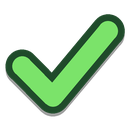
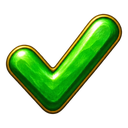
Even out the shop rows and centre Build and Pause in the town bar
Build and Pause each sit centred in the space beside Play. Shop rows gain
a flavor line (the building's first sentence), keep every line one gap
apart with the price and reward lines at one height, show only the
reward's icon, and fade as a whole when the building is out of reach,
through a new node-level opacity in ui.form. Christmas Market uses Relic
Rush's painted checkmark and padlock.

diff --git a/docs/UI_ENGINE.md b/docs/UI_ENGINE.md
@@ -72,7 +72,8 @@ also holds visibility/enabled predicates.
 | `custom` | Game-specific painting inside engine-assigned bounds |
 
 Every node may have `width`, `height`, `min_width`, `min_height`, `grow`, `padding`,
-`gap`, `visible=false`, or `visible_field`. Containers support cross-axis
+`gap`, `visible=false`, `visible_field`, or `opacity` (0–1, multiplying the
+open popup's own fade for the node and its children). Containers support cross-axis
 `align="start|center|end|stretch"`; across a row only a child's `height` caps it,
 and across a column only its `width`, so a row child with just a width still
 stretches to the row's height. Buttons support `enabled=false`,
@@ -653,8 +654,11 @@ for integration checks.
 
 Relic Rush and Christmas Market share `match3.catalogue_form`: headings and one
 building per row, the whole row a flat `pick` button over the game-painted art,
-the name, the price as inline `resource_indicator`s and, for a project, its
-reward; a record marked `slim` takes a short row. It opens as a full-screen sheet
+the name, a flavor line (`about`), the price as inline `resource_indicator`s
+and, for a project, its reward's icon. The price and reward lines share one
+height and the lines one gap, so they sit at an even pitch; a row takes the
+height of its lines. A record marked `faded` (out of reach) draws at half
+opacity. It opens as a full-screen sheet
 under the wallet row: a modal's `bounds` option may be a function of the screen,
 called every frame, and a `list` with `grow` takes the height the sheet leaves.
 A price the wallet cannot cover uses the skin's `price_short` text style.

diff --git a/games/christmas-market/docs/asset-catalogue.md b/games/christmas-market/docs/asset-catalogue.md
@@ -36,10 +36,11 @@ medal uses the original colors.
 
 The town bar reuses the round enamel Build and Pause buttons with the
 [painted jade Play sprite](../../../art/match3-buttons/README.md#town-play)
-centred between them. The Build rim uses the board’s existing blue particles
+centred between them; Build and Pause each centre in the space on their side. The Build rim uses the board’s existing blue particles
 when an eligible project is affordable. The shop lists the current
 phase's building sprites, then the decorations. It draws the existing HUD frames
-`shop-locked` and `shop-built` large over a locked or built building's sprite.
+`shop-locked` and `shop-built` large over a locked or built building's sprite;
+these are Relic Rush's painted padlock and checkmark, copied unchanged.
 Review with `shot epoch-projects-phone` and the phone shop capture.
 
 ## Construction backdrops
@@ -644,8 +645,9 @@ icons to the goal display.
 
 The shop's built and locked tiles use `art/registered/expedition-hud/shop-built.png`
 (checkmark) and `shop-locked.png` (padlock), packed into the HUD atlas as
-`shop-built` and `shop-locked`. The Christmas Market source, prompt and
-per-game styling still need to be recorded in
+`shop-built` and `shop-locked`. They are byte copies of Relic Rush's painted
+`art/registered/expedition-hud/` frames, replacing the earlier flat icons. The
+source, prompt and any per-game styling still need to be recorded in
 [#90](https://github.com/corepunch/nile-archive/issues/90).
 
 The engine's default resource skin is independent and embedded; both games

diff --git a/games/relic-rush/README.md b/games/relic-rush/README.md
@@ -208,9 +208,10 @@ The 100 square boards are authored in `lua/campaign.lua`, five epochs of twenty 
 
 Build opens the shop at the current epoch: its four projects first, under the
 epoch's name and how many are built, then the decorations. Each row shows the
-building's art, its price on one line (an amount you cannot yet cover in red)
-and, for a project, what it brings. A lock or a tick over the art marks a
-locked or built one. A particle trail circles Build when a project is
+building's art, a line about it, its price on one line (an amount you cannot
+yet cover in red) and, for a project, the icon of what it brings. A lock or a
+tick over the art marks a locked or built one, and a row you cannot build yet
+is faded. A particle trail circles Build when a project is
 affordable. A row that can be bought goes straight to placement; a project
 still out of reach opens its card with the shortfall. The triangular Play button shows the next expedition
 between Build and Pause. The next epoch opens after the current one’s

diff --git a/games/christmas-market/README.md b/games/christmas-market/README.md
@@ -97,9 +97,12 @@ come to reopen starts there. The stall can be moved for free. [Opening market](d
 
 Confirmed placement spends Tokens, Treats and Materials from that wallet.
 The Welcome arch is the first campaign purchase.
-The town bar puts Play between the round Build button and the Pause gear.
+The town bar puts Play in the middle, with the round Build button and the
+Pause gear each centred in the space on its side.
 Build opens the shop at the current Advent: its four projects first, under
-the Advent's name and how many are built, then the decorations. A trail
+the Advent's name and how many are built, then the decorations. Each row
+has a line about the stall, its price and, for a project, the icon of what it
+brings; a row you cannot build yet is faded. A trail
 circles Build when an open project is affordable. A row that can be bought
 goes straight to placement; a project still out of reach opens its card with
 the shortfall.

diff --git a/games/christmas-market/docs/square-match3.md b/games/christmas-market/docs/square-match3.md
@@ -57,7 +57,8 @@ First Advent through Fourth Advent and Christmas each have four projects.
 Build opens the shop at the current phase. Its four projects lead the list
 and are available in any order once the phase opens; later phases' projects
 are left out. A particle trail circles Build if you can afford a project.
-Each row shows the price and board reward. Tap an affordable row to choose a
+Each row shows a line about the stall, the price and the board reward's icon;
+rows out of reach are faded. Tap an affordable row to choose a
 site and confirm; a project out of reach opens its card with the shortfall. Play shows the next wish number
 between the round Build button and the Pause gear. The next phase opens
 after its predecessor’s twenty wishes and four projects are complete.
